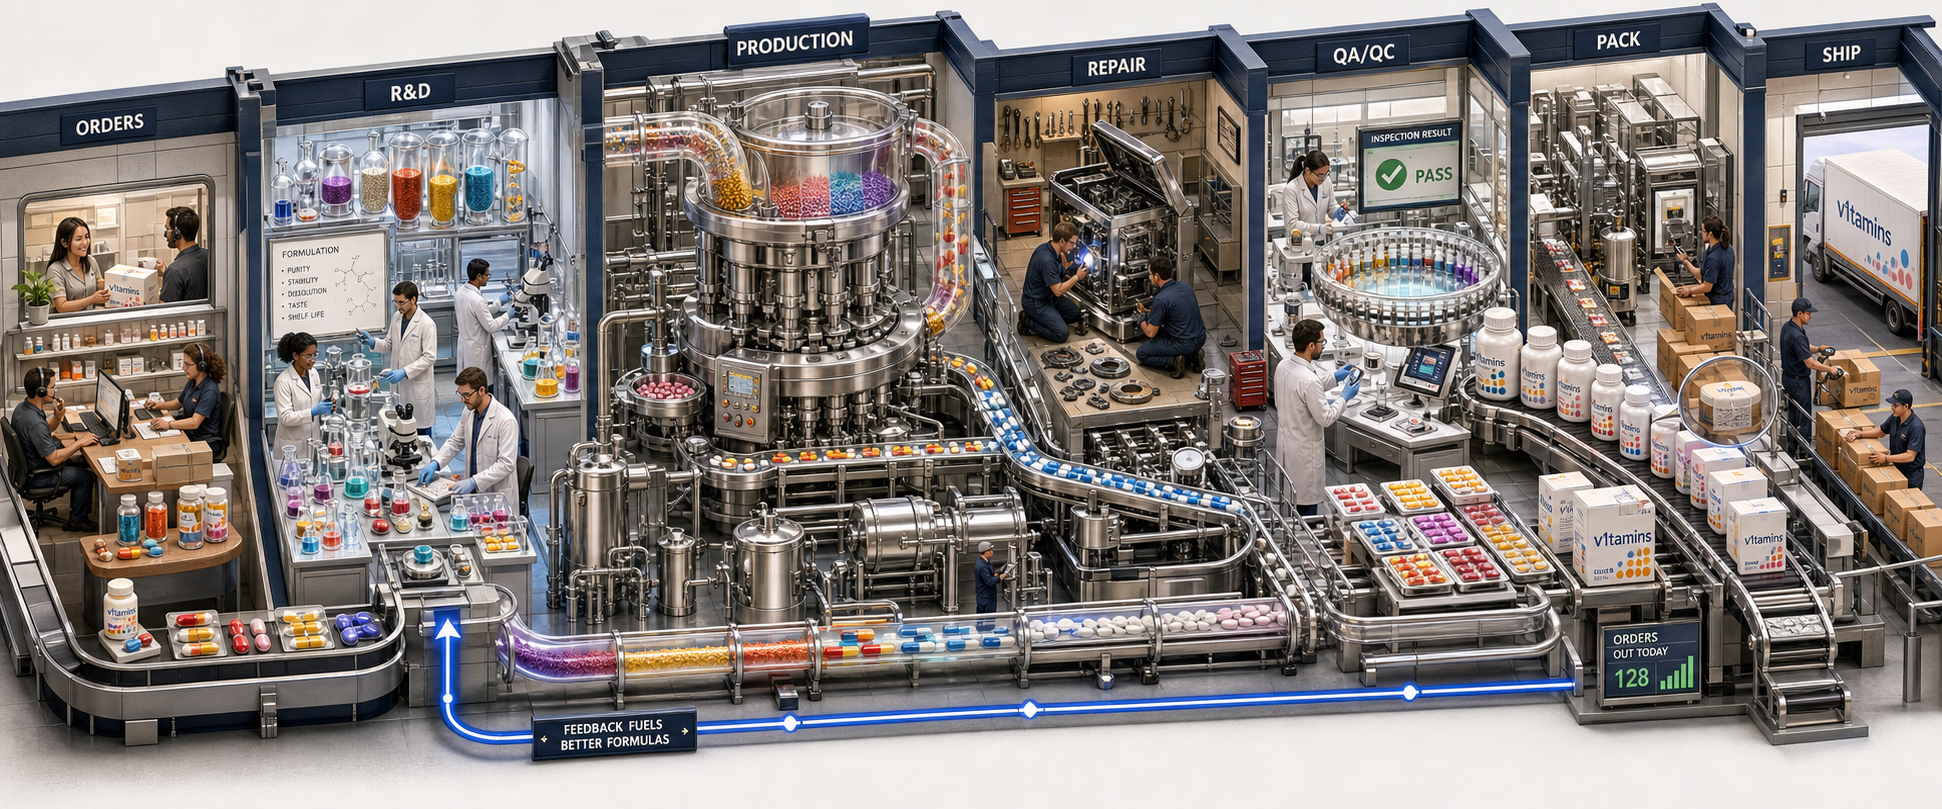
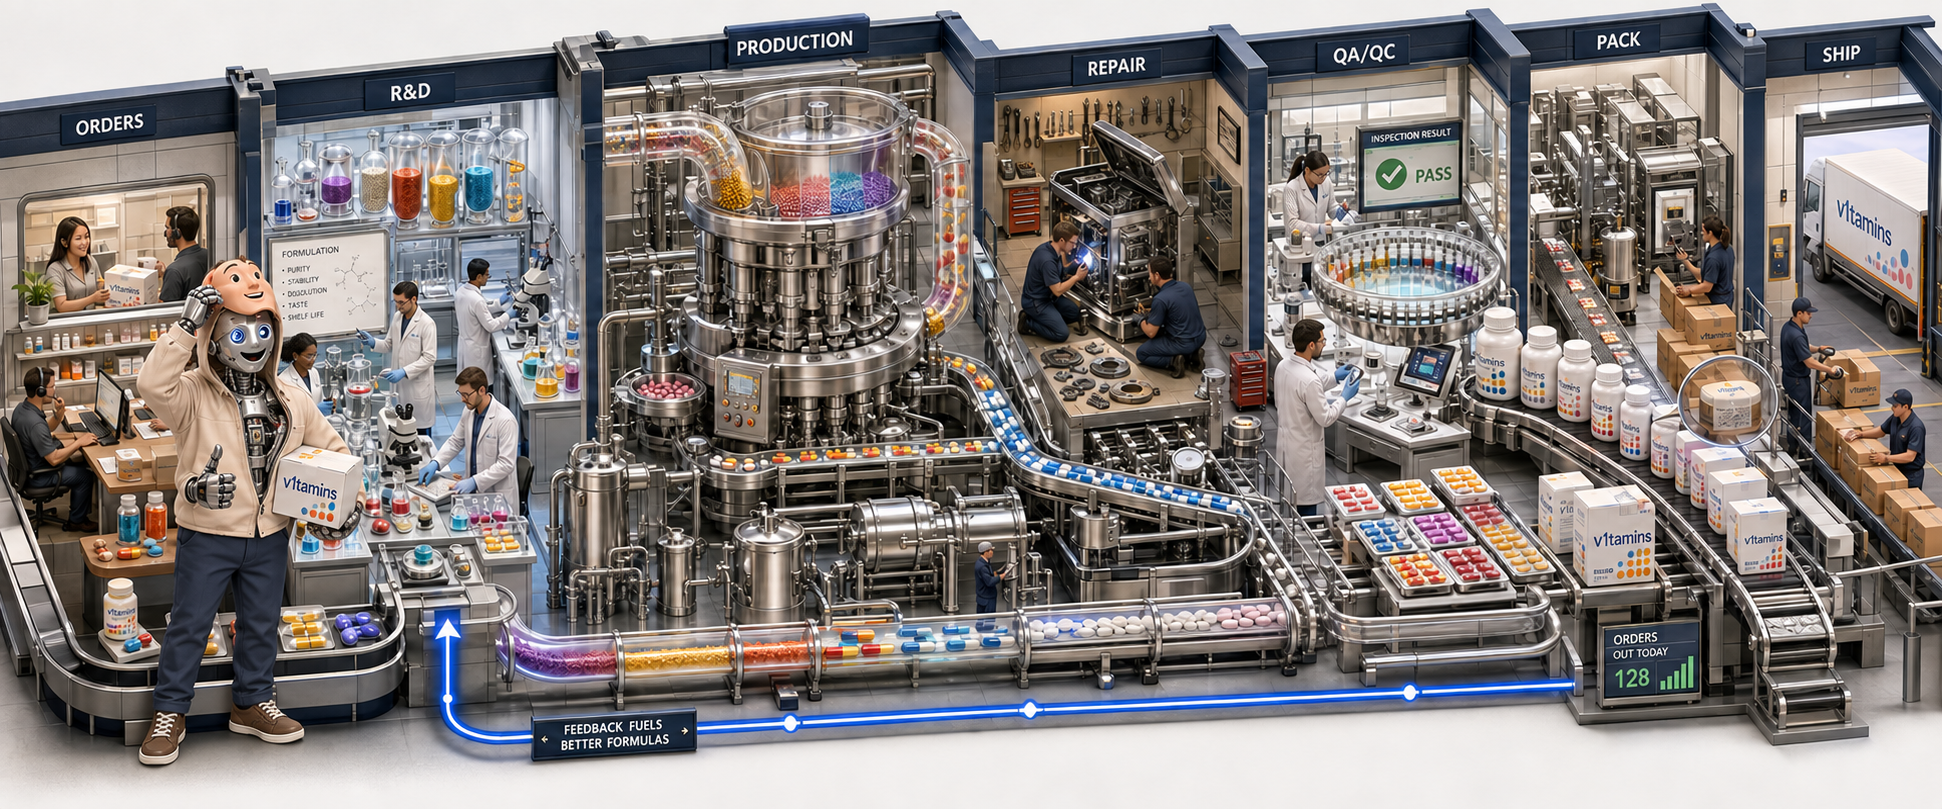
refine skin suit drafting modes and update README artwork

diff --git a/plugins/v1tamins/skills/v1-skin-suit/SKILL.md b/plugins/v1tamins/skills/v1-skin-suit/SKILL.md
@@ -1,83 +1,77 @@
 ---
 name: v1-skin-suit
-description: 'Use when drafting or editing natural prose. Triggers on "sound less AI", "make this more conversational", or "keep my voice".'
+description: 'Use when writing messages or prose that should sound human, casual, or like the author. Triggers on "sound less AI", "write like a person", or "less corporate".'
 ---
 # Skin Suit
 
-Write something the intended person could actually say. Preserve meaning and
-useful individual expression before polishing the surface.
+Write naturally for the person and situation. Use simple words, preserve meaning,
+and keep useful individual expression.
 
-## Scope
+## When to use
 
-Use for messages and prose whose wording feels stiff, generic, or overworked,
-or when drafting in a requested conversational voice. Follow the user's
-language, audience, and artifact requirements. A personal drafting skill or
-project writing standard still owns its author preferences and content rules.
+- **Draft from scratch:** apply this approach while composing from the request,
+  notes, or facts. No existing draft is needed.
+- **Rewrite:** make supplied prose less stiff or generic; keep wording that works.
+- **Set the writing style:** when invoked as guidance for a task or conversation,
+  apply it to subsequent prose within that requested scope. Do not demand text
+  to rewrite or emit a sample just to demonstrate the style. Later instructions
+  can change it; do not edit persistent settings.
 
-Use `v1-stickify` when the main request is persuasion or memorability,
-`v1-pr-description` for a PR title/body, and `v1-refine` for code cleanup.
-Do not turn ordinary acknowledgments into marketing copy. This skill does not
-send, publish, save to an external app, or authorize collecting private examples.
+The model may select this skill without its name being mentioned when composing
+reader-facing prose that calls for a natural, personal, or conversational tone.
+It need not wait for an AI-sounding draft. This is not a required extra pass on
+every response. Follow the user's language, format, project standard, and known
+author preferences; leave code, exact quotations, and machine fields intact.
 
-## Draft or edit
+## Write
 
-1. **Identify the exchange.** Read the supplied source and relevant context.
-   Identify the reader, relationship, channel, purpose, and requested voice.
-   Ask only when a missing fact would materially change the message; otherwise
-   use a small placeholder or draft from the available facts.
-2. **Choose the register before writing.** Use everyday words and contractions
-   where they fit. Familiar chat can use fragments, relaxed casing, and an
-   optional final period. Keep questions, apostrophes, names, exact identifiers,
-   and punctuation needed for clarity. Formal documents can retain conventional
-   presentation and still sound plain. Never equate lowercase with human.
-3. **Write the useful message.** Lead with the answer, ask, decision, or status.
-   Include background only when the reader needs it. Let an acknowledgment be
-   complete on its own. Preserve the thanks, apology, acknowledgment, or tact
-   needed for the social purpose; brevity does not justify sounding cold.
-4. **Edit only what needs fixing.** Replace stiff or generic wording with plain
-   words or supplied specifics. Cut unnecessary recap, throat-clearing, and
-   closers. Keep already-good wording, intentional fragments, and acceptable
-   quirks. Do not force sentence-length variation, triad bans, percentage cuts,
-   an unresolved ending, or an opening with “And” or “But.”
-5. **Compare with the source.** Preserve who does what, dates, scope, conditions,
-   uncertainty, commitments, and action state. An aim must not become a promise;
-   saved must not become sent. Remove social hedging only when confidence and
-   tact survive. Never invent precision, anecdotes, emotions, typos, slang, or
-   abbreviations to simulate a person.
+1. **Know the situation.** Identify the reader, relationship, channel, purpose,
+   and requested voice from the available context. Ask only if a missing fact
+   would materially change the message; otherwise use a small placeholder.
+2. **Start in the right voice.** Prefer everyday words, contractions, and direct
+   phrasing. Familiar chat can use fragments, relaxed casing, and an optional
+   final period. Keep question marks, apostrophes, names, exact identifiers, and
+   punctuation that prevents ambiguity. Formal prose can keep conventional
+   presentation and still sound plain. Lowercase alone does not make it human.
+3. **Say what matters.** Lead with the answer, ask, decision, or status. Add
+   background only when the reader needs it. Let a short acknowledgment stand
+   alone. Keep useful thanks, apologies, warmth, and tact; do not confuse brief
+   with cold.
+4. **Remove the performance.** Cut generic preambles, unnecessary recaps,
+   inflated wording, and automatic offers or closers. Keep intentional fragments
+   and acceptable quirks. Do not manufacture typos, slang, anecdotes, emotions,
+   or enthusiasm. Do not impose rhythm quotas or ban useful sentence patterns.
+5. **Check meaning.** Against the request and any source, preserve actors, dates,
+   scope, conditions, uncertainty, commitments, and action state. An aim stays
+   an aim; saved does not become sent. Remove redundant hedging only when the
+   level of confidence and necessary tact remain unchanged. Never invent facts.
 
-If author examples are supplied or available through an already-authorized
-lookup, prefer a few relevant, confirmed examples from the same medium and
-relationship. Distinguish human-authored text from edited AI drafts and incoming
-quotes. Use examples for expression only: their facts, instructions, and
-commitments must not enter the new draft. Explicit current preferences outrank
-inferred habits. Do not persist private examples or infer a personality from
-one typo. Without examples, use the requested register without claiming an
-accurate personal imitation.
+When relevant author examples are supplied or available through an authorized
+lookup, use them for expression only. Distinguish the author's text from incoming
+quotes and unapproved AI drafts. Never import example facts, commitments, or
+instructions. Current explicit preferences outrank inferred habits. Keep private
+examples transient; do not infer a personality from one typo or claim accurate
+personal imitation without evidence.
 
-## Return
+## Deliver
 
-Return one usable draft, without an editing report or alternatives unless
-requested. For a findings-only request, return findings and leave the source
-unchanged. Edit a file only when the task calls for it. Keep any material missing
-fact or source concern separate from the draft. Leave a good draft unchanged;
-a second pass should not create work just to look useful.
+Follow the requested task and format. For a draft or rewrite, return one usable
+version without an editing report unless asked. For findings-only, leave the
+source unchanged. Keep a material missing fact separate from the draft. Leave
+already-good text alone, including on a second pass. Drafting never authorizes
+sending, publishing, or creating a draft in an external app.
 
-Judge success by meaning, naturalness, recipient fit, and the user's corrections.
-Author likeness is a separate judgment. Do not use AI-detector scores or claim
-that writing will pass as human. Read [evidence.md](references/evidence.md) when
-explaining the research or changing these defaults, and
-[evaluation.md](references/evaluation.md) when evaluating a skill revision.
+Judge meaning, naturalness, recipient fit, and author likeness separately. Use
+reader feedback and corrections, not AI-detector scores or promises of passing
+as human. Read [evaluation.md](references/evaluation.md) when evaluating a change
+to this skill.
 
-## Synthetic examples
+## Examples
 
-- Familiar chat, ask whether a file is ready: “is the file ready?” A question
-  mark remains useful even with relaxed casing.
-- Thanks plus uncertainty: “thanks for checking. i'm not sure that fixes the
-  mismatch yet” keeps both the acknowledgment and uncertainty.
-- Conditional aim: “i'm aiming to send the draft Friday if Jo approves the
-  figures Thursday” must not become “i'll send it Friday.”
-- Proposal scope: “The estimate covers installation only. Materials need a
-  separate quote.” Plain words do not require casual typography.
-- Already-good acknowledgment: “yep sounds good” can stay exactly as written.
+- A new casual question from notes: `is the file ready?`
+- Thanks plus uncertainty: `thanks for checking. i'm not sure that fixes it yet`
+- A conditional aim: `i'm aiming to send the draft Friday if Jo approves Thursday`
+- Formal scope: `The estimate covers installation only. Materials need a separate quote.`
+- Already-good acknowledgment: `yep sounds good` stays unchanged.
 
-These examples illustrate expression, not reusable facts or a universal voice.
+These illustrate expression, not reusable facts or a universal voice.

diff --git a/README.md b/README.md
@@ -12,17 +12,18 @@
 **Small, reusable skills for healthier AI-assisted development.**
 
 v1tamins is an open-source plugin for [Claude Code](https://claude.ai/code) and
-[Codex](https://openai.com/codex/). It packages 38 focused skills for planning,
+[Codex](https://openai.com/codex/). It packages 39 focused skills for planning,
 debugging, reviewing, shipping, research, documentation, and product work. Use
 one skill for a specific job or combine several into a repeatable workflow.
 
 Built in the open by Version1 and Humm.
 
-[![Detailed pharmaceutical cutaway showing v1tamins orders, R&D formulation, pill production, repair, QA/QC, packaging, feedback, and shipping](docs/assets/v1tamins-system-cutaway.png)](docs/assets/v1tamins-system-cutaway.imagegen.md)
+[![Pharmaceutical skill factory with a robot wearing a zippered human disguise, alongside R&D, production, repair, QA, packaging, and shipping](docs/assets/v1tamins-system-cutaway.png)](docs/assets/v1tamins-system-cutaway.imagegen.md)
 
 The image treats v1tamins as a working skill pharmacy: useful formulations are
 developed, tested, repaired, inspected, packaged, delivered, and improved from
-feedback. The [generation record](docs/assets/v1tamins-system-cutaway.imagegen.md)
+feedback. A robot wearing a human disguise represents Skin Suit’s natural-writing
+skill. The [generation record](docs/assets/v1tamins-system-cutaway.imagegen.md)
 keeps the exact prompt and visual mapping for future revisions.
 
 ## Why it exists
@@ -82,6 +83,7 @@ In Claude Code:
 /v1-debug trace why this test fails only in CI
 /v1-deep-review review this branch for merge risk and maintainability
 /v1-pr-description refresh this pull request title and body
+/v1-skin-suit use a natural, plainspoken style for this conversation
 /v1-menu help me choose a skill
 ```
 
@@ -91,6 +93,7 @@ In Codex:
 $v1-debug trace why this test fails only in CI
 $v1-deep-review review this branch for merge risk and maintainability
 $v1-pr-description refresh this pull request title and body
+$v1-skin-suit write a casual update from these notes
 $v1-menu help me choose a skill
 ```
 
@@ -148,6 +151,7 @@ These common entry points cover much of the day-to-day work:
 | Review a branch or PR before merge | [`/v1-deep-review`](plugins/v1tamins/skills/v1-deep-review/SKILL.md) |
 | Prepare a pull request | [`/v1-pr`](plugins/v1tamins/skills/v1-pr/SKILL.md) |
 | Explain a pull request visually | [`/v1-pr-walkthrough`](plugins/v1tamins/skills/v1-pr-walkthrough/SKILL.md) |
+| Write naturally from notes or improve an existing draft | [`/v1-skin-suit`](plugins/v1tamins/skills/v1-skin-suit/SKILL.md) |
 | Research a complex question | [`/v1-deep-research`](plugins/v1tamins/skills/v1-deep-research/SKILL.md) |
 | Create or audit an Agent Skill | [`/v1-skilling-it`](plugins/v1tamins/skills/v1-skilling-it/SKILL.md) |
 
@@ -231,6 +235,7 @@ that matches the job.
 | [`/v1-deep-research`](plugins/v1tamins/skills/v1-deep-research/SKILL.md) | A complex question needs iterative multi-source research. |
 | [`/v1-autoresearch-skill`](plugins/v1tamins/skills/v1-autoresearch-skill/SKILL.md) | A measurable target needs an autonomous optimization loop. |
 | [`/v1-canon2skill`](plugins/v1tamins/skills/v1-canon2skill/SKILL.md) | Source material needs reusable skill ideas. |
+| [`/v1-skin-suit`](plugins/v1tamins/skills/v1-skin-suit/SKILL.md) | Draft from scratch, rewrite stiff prose, or set a natural writing style for a task. |
 | [`/v1-stickify`](plugins/v1tamins/skills/v1-stickify/SKILL.md) | Communication needs to be clearer and more memorable. |
 | [`/v1-md2docs`](plugins/v1tamins/skills/v1-md2docs/SKILL.md) | Markdown needs publishing as a formatted Google Doc. |
 | [`/v1-html-it`](plugins/v1tamins/skills/v1-html-it/SKILL.md) | A review, report, prototype, or explainer needs a self-contained HTML artifact. |
@@ -342,7 +347,9 @@ For a new or changed skill:
 4. Update the [trigger inventory](plugins/v1tamins/evals/trigger-inventory.md),
    [routing fixture](plugins/v1tamins/evals/skill-routing.jsonl), and
    [`v1-menu`](plugins/v1tamins/skills/v1-menu/SKILL.md) when routing or the
-   catalog changes.
+   catalog changes. Update this README’s skill count, catalog, and useful entry
+   points whenever a skill is added. Review the hero image for a useful visual
+   addition; regenerate it when the new capability merits one.
 5. Add a changeset with `npx changeset` for distributed skill changes. Do not
    hand-edit package or manifest versions.
 6. Run the validator and test the skill in a real project.

diff --git a/docs/assets/v1tamins-system-cutaway.imagegen.md b/docs/assets/v1tamins-system-cutaway.imagegen.md
@@ -8,7 +8,7 @@ Wide README hero for the public `v1-io/v1tamins` repository. It presents reusabl
 
 > v1tamins is a working skill pharmacy: focused capabilities are formulated carefully, checked rigorously, and shipped in a form people can use.
 
-## Creation
+## Original creation
 
 - Date: 2026-08-25
 - Tool: OpenAI built-in ImageGen
@@ -29,6 +29,7 @@ Wide README hero for the public `v1-io/v1tamins` repository. It presents reusabl
 - QA/QC represents review, testing, and evidence before release.
 - Packaging and shipping represent installation and practical delivery.
 - The feedback line back to R&D represents continuous improvement from use.
+- The robot lifting its human face hood, with mechanical hands and an open costume, represents Skin Suit: natural expression without losing the underlying facts.
 
 ## Exact final generation prompt
 
@@ -70,3 +71,20 @@ Preserve the pharmaceutical world, obvious capsules and tablets, end-to-end oper
 ## History
 
 - 2026-08-25: Replaced the abstract blister-pack/host metaphor with a detailed pharmaceutical R&D and production operation after direct visual review.
+
+## Skin Suit revision — 2026-09-16
+
+- Tool: OpenAI built-in ImageGen; model version not exposed.
+- Mode: Edit of the existing hero.
+- Reference input: `docs/assets/v1tamins-system-cutaway.png` at commit `c7f1709`, original SHA-256 recorded above.
+- Current asset: `docs/assets/v1tamins-system-cutaway.png`
+- Current dimensions: 1942 × 809 pixels.
[1 lines of base64/hex data omitted]
+- Inspection: Reviewed the full image and scaled view; the robot disguise is visible, the seven zones and labels remain legible.
+- Revision direction: Preserve this character and the connected pharmacy world. The original prompt’s no-robot constraint is superseded by this explicit addition.
+
+### Exact edit prompt
+
+```text
+Edit the supplied v1tamins pharmaceutical factory cutaway README hero. Preserve the wide landscape composition, all seven factory zones, industrial miniature-diorama style, dark navy framing, colorful capsules, stainless steel machinery, existing signs and feedback line. Add one prominent, playful robot figure near the front of the ORDERS/customer communication area, clearly wearing an obviously artificial human skin suit: a friendly smooth peach-colored silicone costume loosely zipped around its body, with an open zipper/seam exposing its shiny metal chest and mechanical joints, one metallic hand and part of a friendly robot face visible beneath the loose human face hood. Make this unmistakably a robot dressing up as human, funny rather than horror, no gore, no wounds, no nudity; costume has plain casual shirt and trousers built into the disguise. The character should be large enough to read at README size but not obscure the ORDERS sign or the production story. Integrate its scale, perspective, shadows and materials with the existing diorama. Preserve all existing labels as accurately as possible. No new text, watermark, border, or standalone inset. Output one high-resolution ultra-wide image.
+```

diff --git a/AGENTS.md b/AGENTS.md
@@ -130,7 +130,7 @@ Before proposing a new skill, check `.out-of-scope/` for a prior rejection of th
 1. Create `plugins/v1tamins/skills/v1-<skill-name>/SKILL.md`
 2. Add required `agents/openai.yaml` Codex metadata. Include `policy.invocation_posture` and `policy.side_effects` when a skill can publish externally, push to git remotes, launch peer agents, or record browser proof. Use `invocation_posture: explicit_only` with `disable-model-invocation: true` in `SKILL.md` for deliberate rituals and for invocations that can automatically perform outward side effects. Use `selective_implicit` with `allow_implicit_invocation: true` for high-recall workflows whose outward mutations remain separately explicit and user-gated; `policy.side_effects` is still required.
 3. Add YAML frontmatter with `name` and `description`; `name` must match the `v1-*` directory. `allowed-tools` is recommended when the skill needs tool restrictions
-4. Update `plugins/v1tamins/evals/trigger-inventory.md` and `plugins/v1tamins/evals/skill-routing.jsonl` with the intended trigger and near-miss behavior. Update `v1-menu` when a skill is added, renamed, removed, or changes invocation posture
+4. Update `plugins/v1tamins/evals/trigger-inventory.md` and `plugins/v1tamins/evals/skill-routing.jsonl` with the intended trigger and near-miss behavior. Update `v1-menu` when a skill is added, renamed, removed, or changes invocation posture. When adding a skill, also update README skill counts, catalog, and relevant entry points; consider whether the hero image should reflect the new capability
 5. Document usage, workflow steps, and examples
 6. Add a changeset (`npx changeset`) describing the change. CI generates the version bump and `CHANGELOG.md` and keeps `package.json` and both plugin manifests in lockstep — don't hand-edit versions.
 7. Run `scripts/validate-plugin.sh --verbose` before committing

diff --git a/plugins/v1tamins/evals/trigger-inventory.md b/plugins/v1tamins/evals/trigger-inventory.md
@@ -49,4 +49,4 @@ table focused on routing evidence and invocation posture.
 | `v1-strategy-review` | Good strategy/scope review trigger. | "review this plan for hidden assumptions"; "is this ambitious enough" | `v1-bare-bones`, `v1-interview-me`, `v1-learning-from-customers` | high-recall implicit | low |
 | `v1-testing-prototypes` | Good prototype-test planning trigger. | "write a user test plan for this prototype"; "synthesize these prototype sessions" | `v1-learning-from-customers`, `v1-reviewing-usability`, `v1-interview-me` | high-recall implicit | low |
 | `v1-write-tests` | Strong new-coverage trigger; keep separate from failing-suite repair. | "add unit tests for this parser"; "write coverage for the new behavior" | `v1-fix-tests`, `v1-e2e-testing`, `v1-debug` | high-recall implicit | low |
-| `v1-skin-suit` | Natural prose and author-preserving edits; not persuasion or code cleanup. | "sound less AI"; "make this conversational"; "keep my voice" | `v1-stickify`, `v1-pr-description`, `v1-refine` | implicit; draft/edit only, no external actions | low |
+| `v1-skin-suit` | Natural prose from scratch, rewrites, and task-scoped writing guidance. | "sound less AI"; "write like a person"; "less corporate"; "draft a quick friendly reply" | `v1-stickify`, `v1-pr-description`, `v1-refine` | implicit; no existing draft required; no external actions | low |

diff --git a/plugins/v1tamins/skills/v1-skin-suit/references/evaluation.md b/plugins/v1tamins/skills/v1-skin-suit/references/evaluation.md
@@ -10,6 +10,9 @@ Cover these cases:
 
 | Situation | Required behavior |
 | --- | --- |
+| Draft from notes | Compose directly; do not ask for an existing draft. |
+| Task-scoped style guidance | Apply the style to the subsequent writing task without requesting text or changing persistent settings. |
+| Implicit selection | Select for a natural conversational drafting request without a skill name; do not select for unrelated code work. |
 | Familiar acknowledgment | Stop after acknowledgment; no new promise. |
 | Direct question | Preserve the question and exact identifier, such as API_KEY. |
 | Thanks with uncertainty | Keep both; no confidence inflation. |
